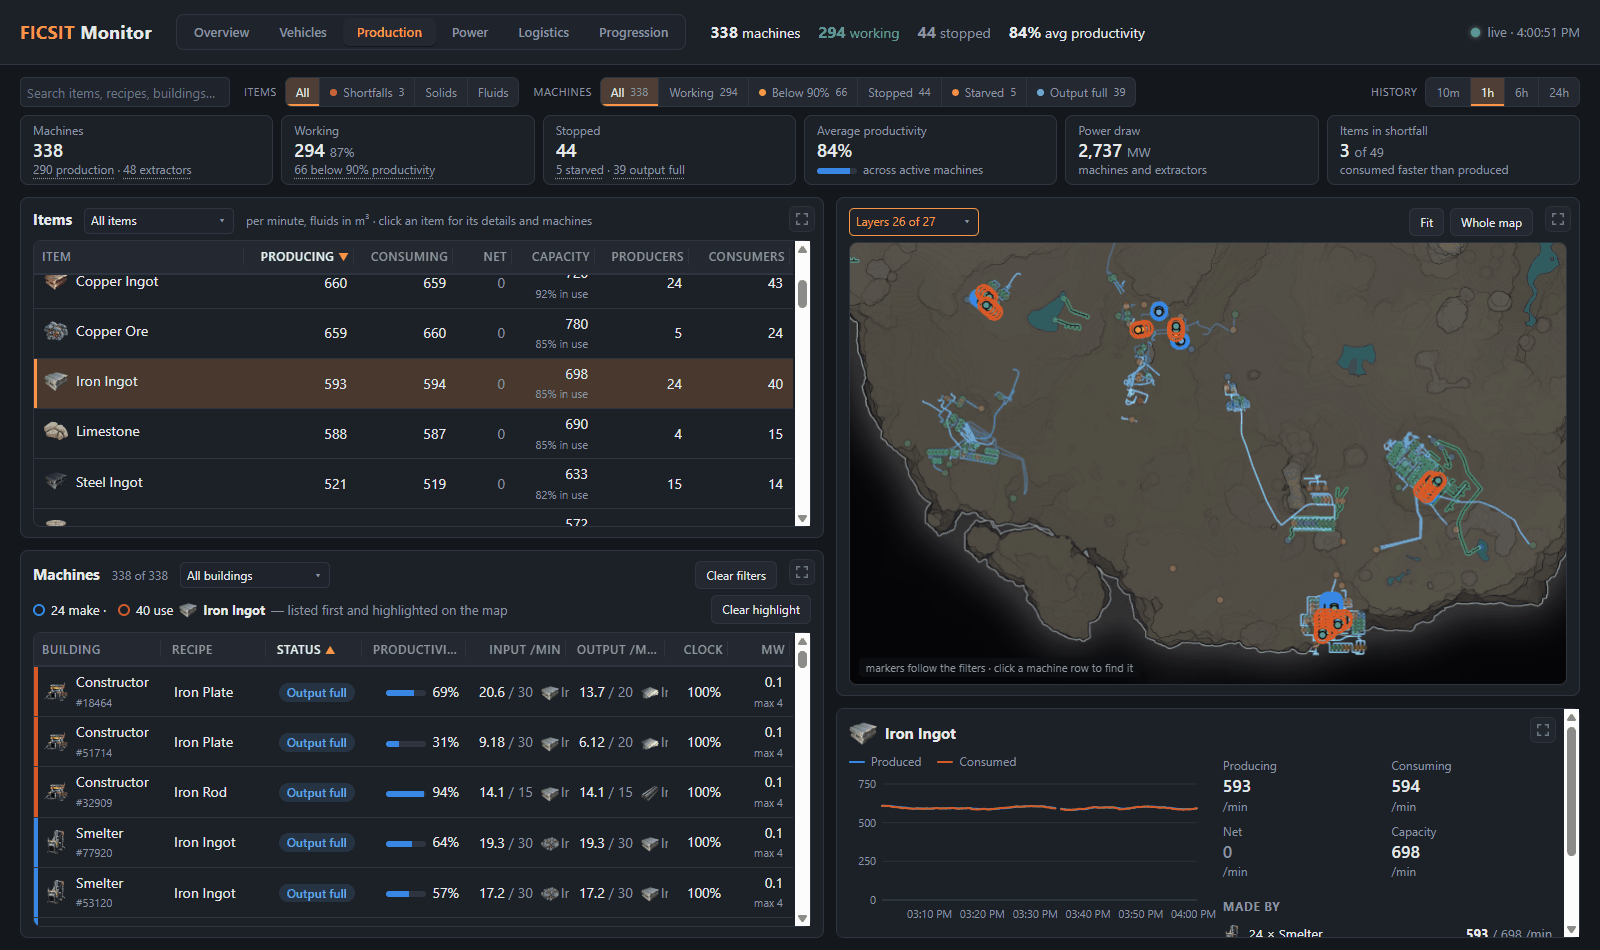
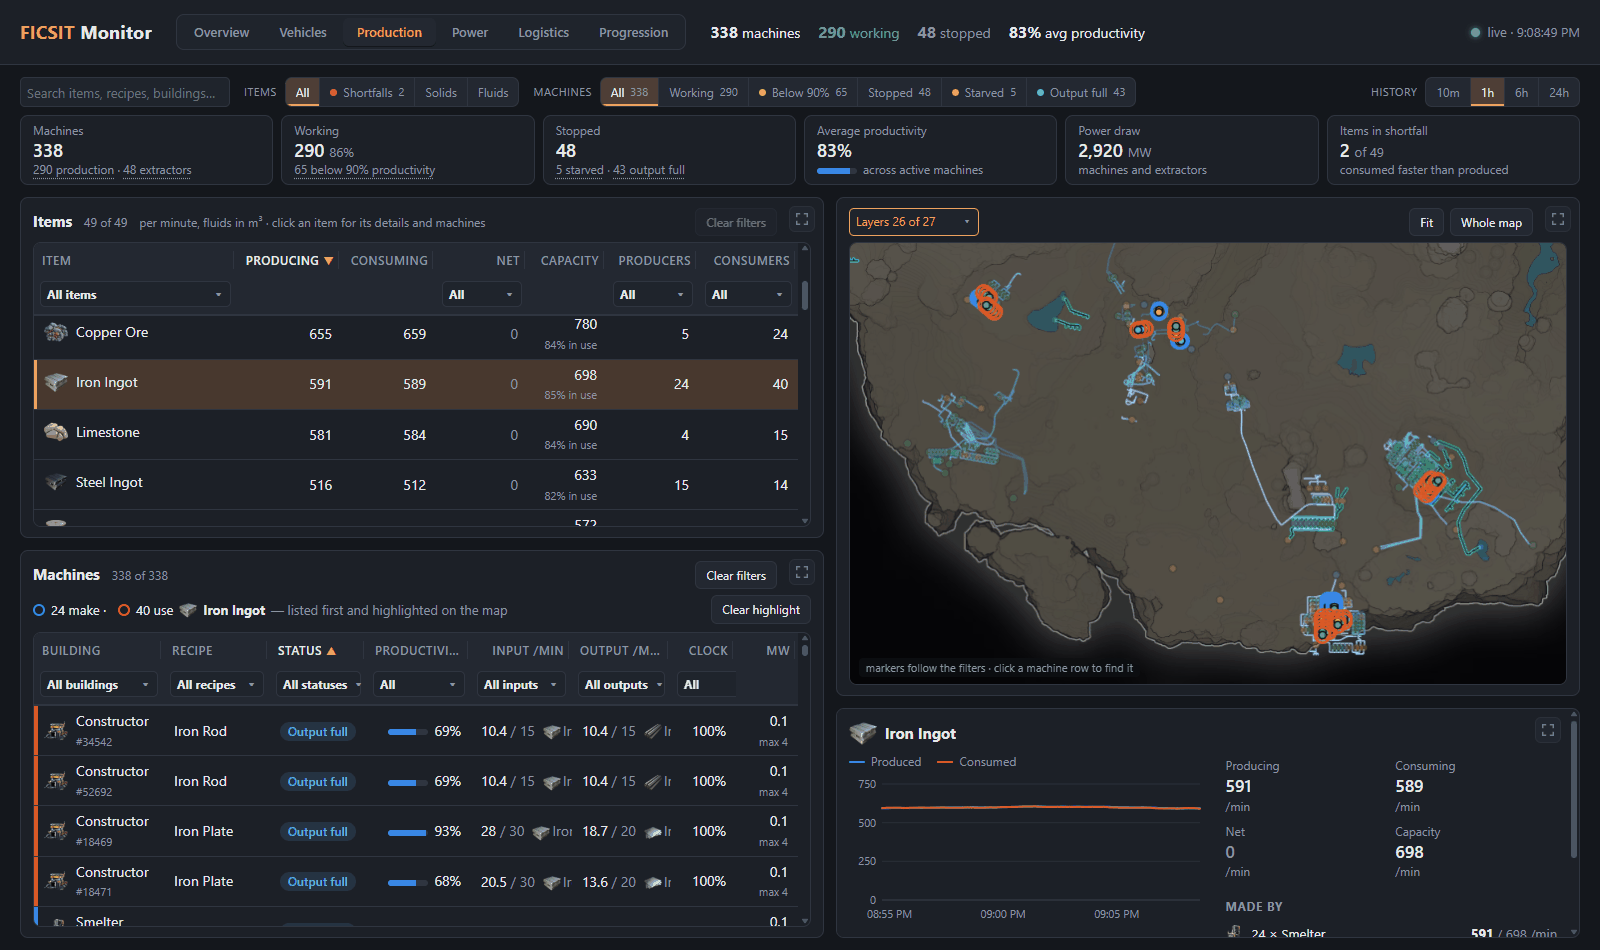
README: new screenshots (Power tab, column filters, map colours), right-click maps

diff --git a/README.md b/README.md
@@ -43,7 +43,7 @@ A live web dashboard for a Satisfactory world: how the factory is doing at a gla
 - Collectibles found (Somersloops, Mercer Spheres, power slugs) and resource nodes tapped. Click one to find the ones still out there on the map.
 
 ### Everywhere
-- Every map has a **Layers** dropdown, X/Y coordinates under the cursor, and shows players (online and offline). The Production map shows the belts and pipes of production lines; the Overview and Logistics maps show them all.
+- Every map has a **Layers** dropdown, X/Y coordinates under the cursor, and shows players (online and offline). **Right-click** a map to open the same spot, at the same zoom, in another tab's map. The Production map shows the belts and pipes of production lines; the Overview and Logistics maps show them all.
 - Every table has its title and row count on the left, **Clear filters** on the right, and filters under the column headings.
 - Every panel has a **full-screen** button (Esc to close). Table columns can be resized (double-click an edge to fit) and sorted.
 - On a desktop browser each tab fits one screen; on phones the panels stack.
